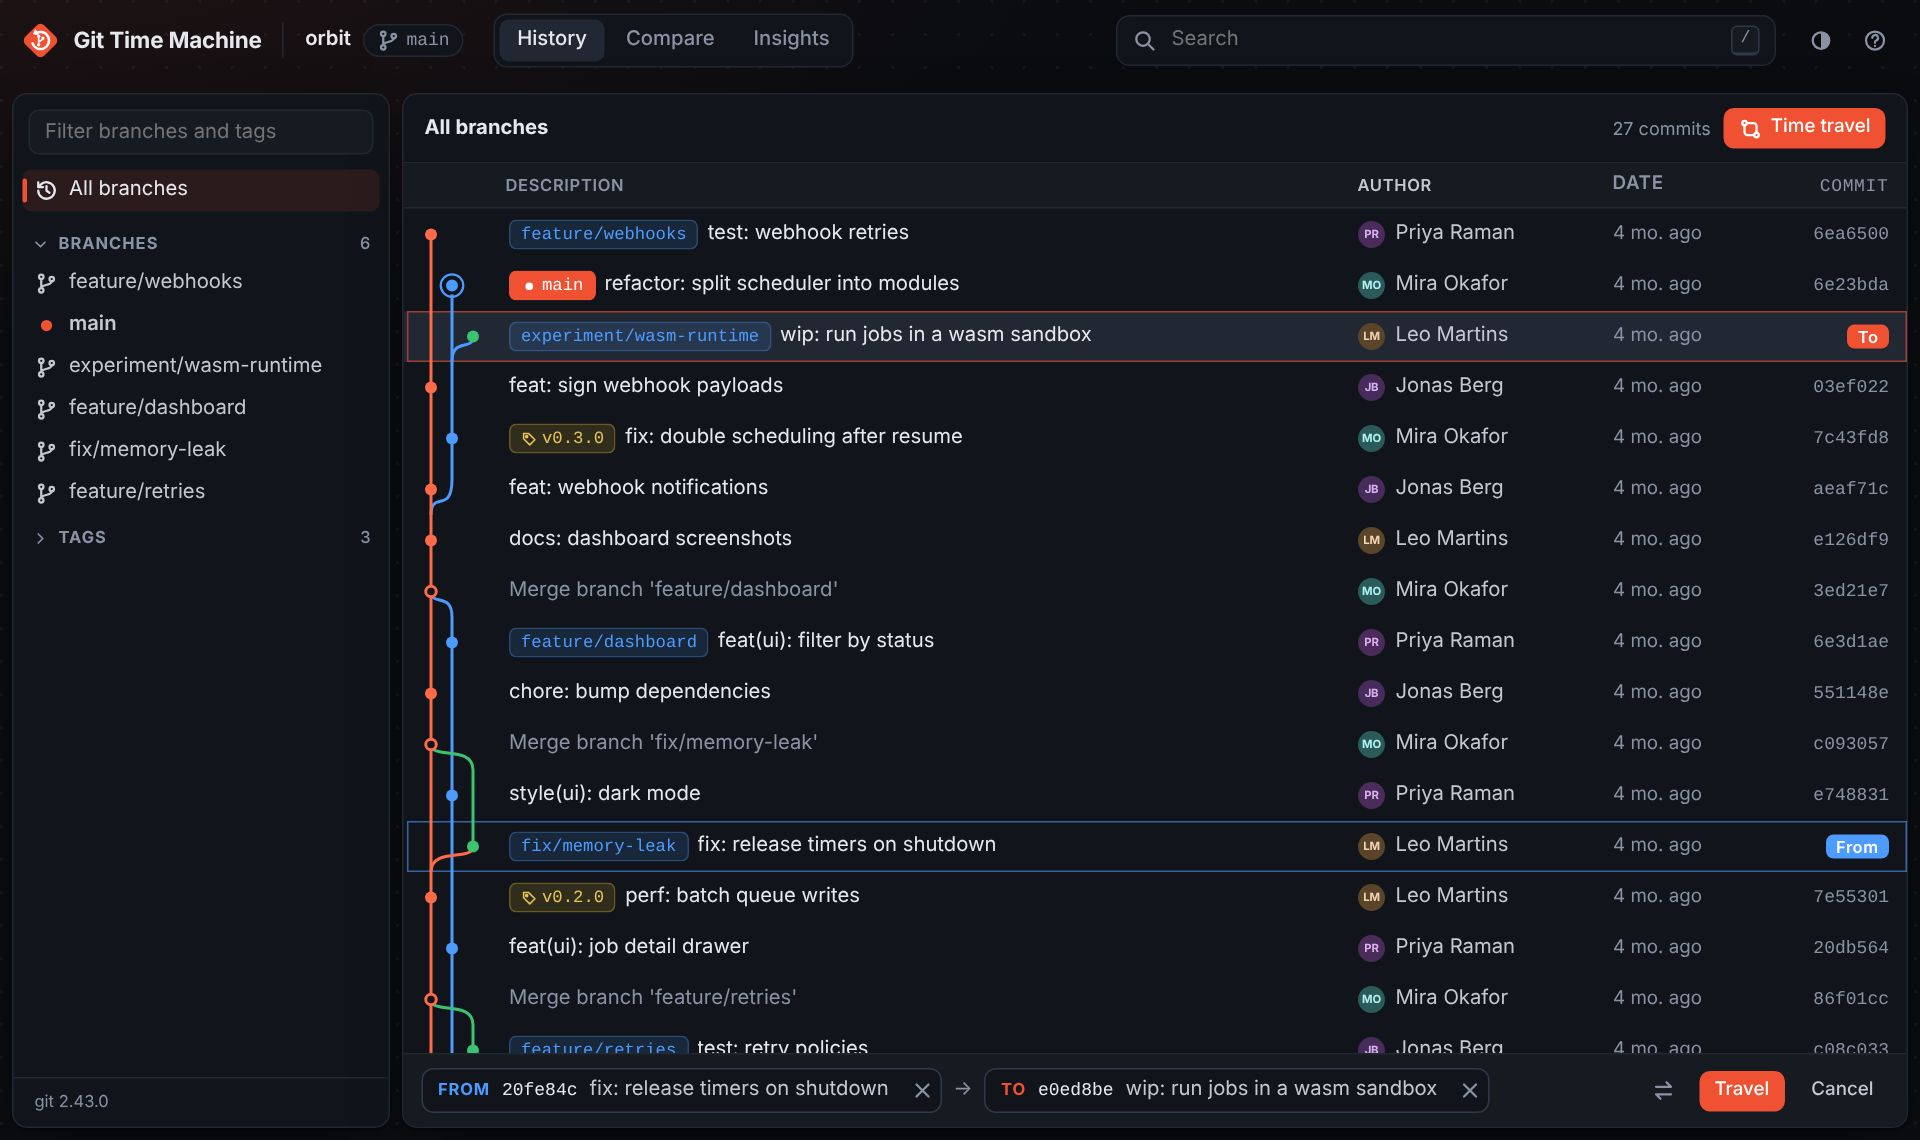
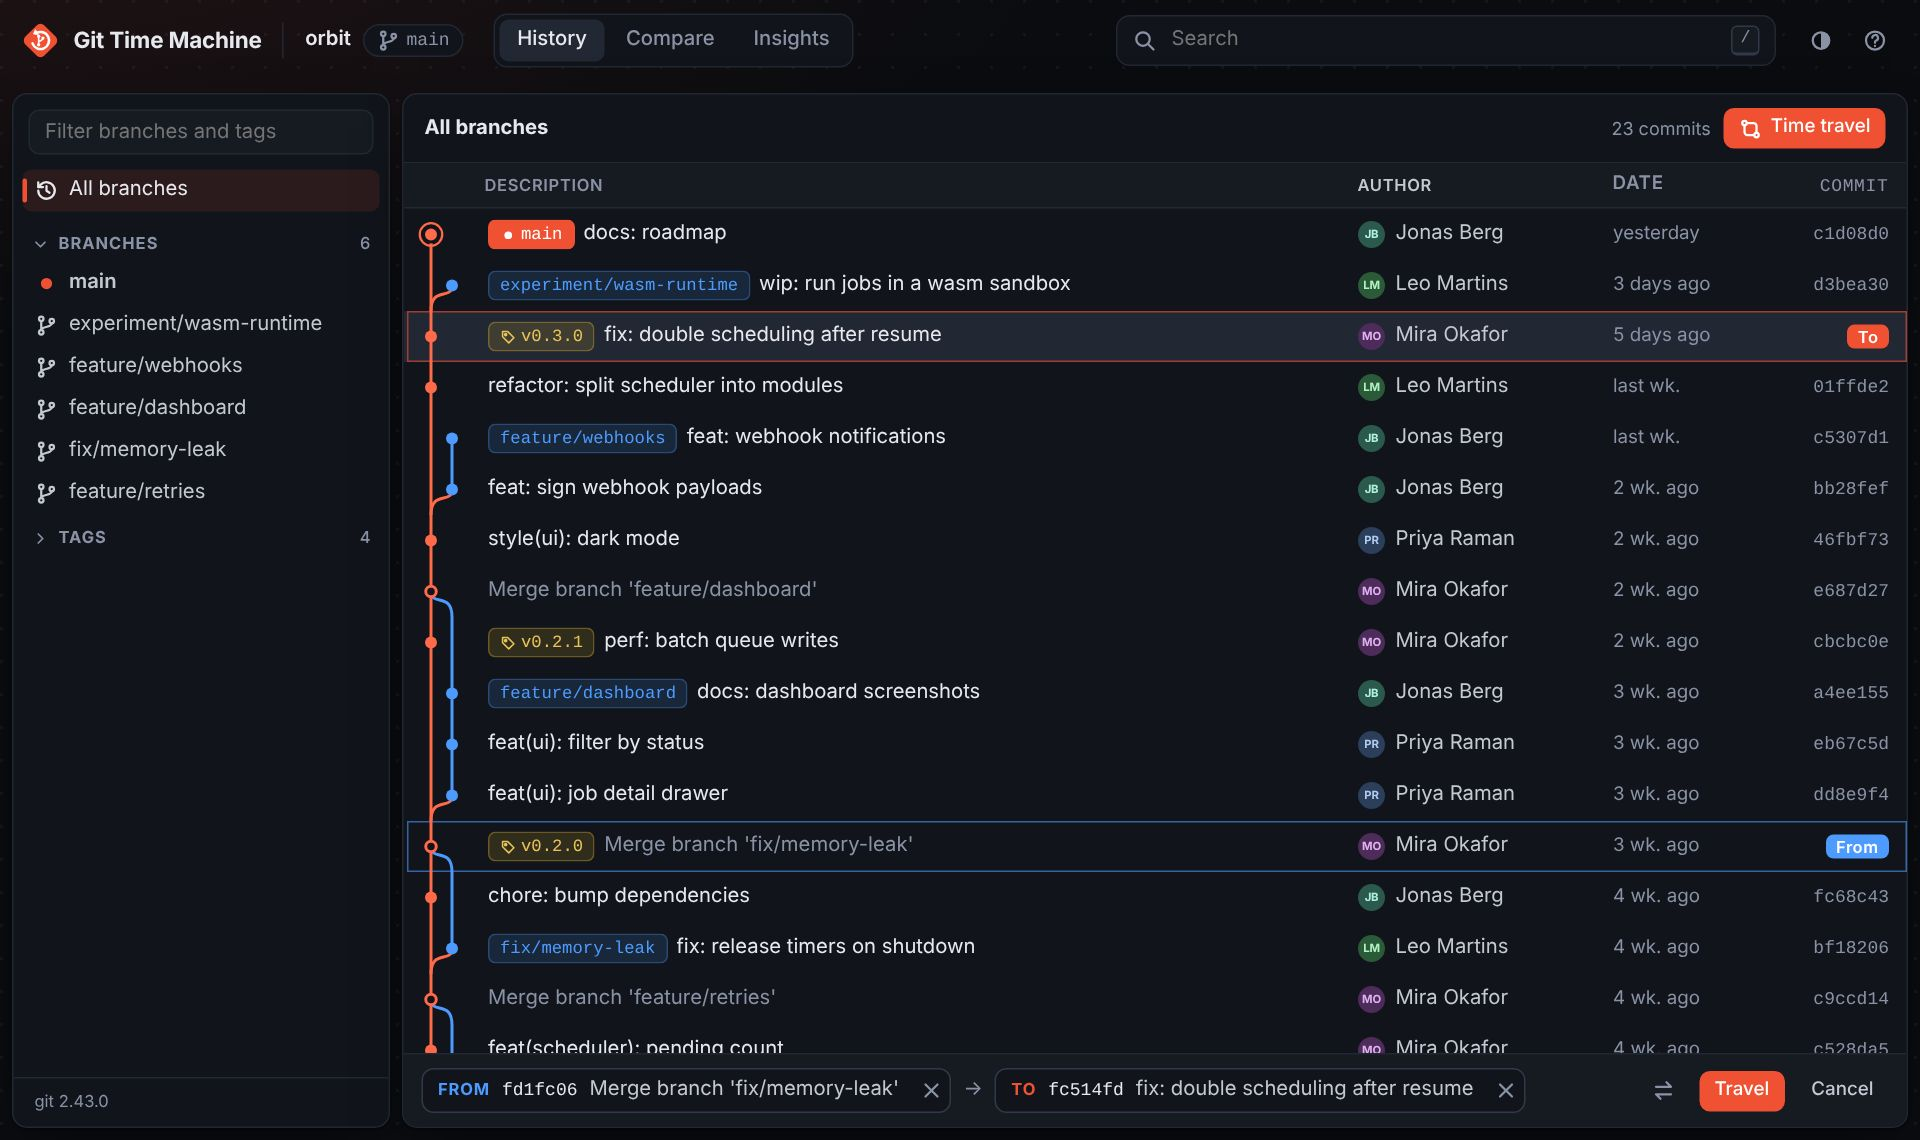
Docs: refresh the guide screenshots from the new demo project

diff --git a/docs/guide.html b/docs/guide.html
@@ -132,7 +132,7 @@ git-tm --open</code></pre>
         <h3 id="stepping">Stepping through the journey</h3>
         <p>The slider walks through the snapshots between From and To, one commit at a time: back along From's first parents to the common ancestor, then forward along To's. At each step the file list shows what has changed so far. Use the arrow buttons, the arrow keys, or click a commit in the <em>Applied</em> or <em>Undone</em> list to jump to it. The current step is kept in the URL, so you can share or reload it.</p>
         <figure>
-          <img src="img/time-travel.jpg" width="1920" height="1140" loading="lazy" alt="Compare view stepped back to step 4 of 6 between two commits" />
+          <img src="img/time-travel.jpg" width="1920" height="1140" loading="lazy" alt="Compare view at step 3 of 5 between two commits" />
           <figcaption>Stepping through a forward journey. The highlighted commit is the current step.</figcaption>
         </figure>
 

diff --git a/docs/index.html b/docs/index.html
@@ -108,7 +108,7 @@
             </ul>
             <p><a href="guide.html#time-travel">How time travel works →</a></p>
           </div>
-          <img src="img/time-travel.jpg" width="1920" height="1140" loading="lazy" alt="Comparing two commits: forward in time, 11 commits applied, stepping through 6 snapshots" />
+          <img src="img/time-travel.jpg" width="1920" height="1140" loading="lazy" alt="Comparing two commits: forward in time, 8 commits applied, at step 3 of 5" />
         </div>
       </section>
 
